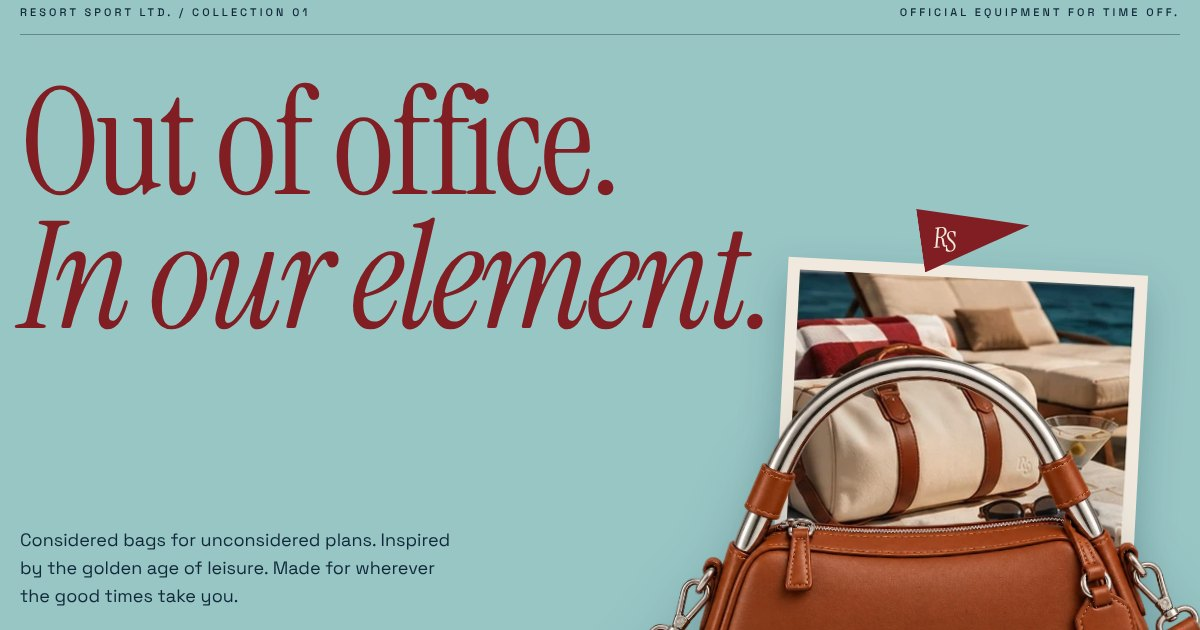
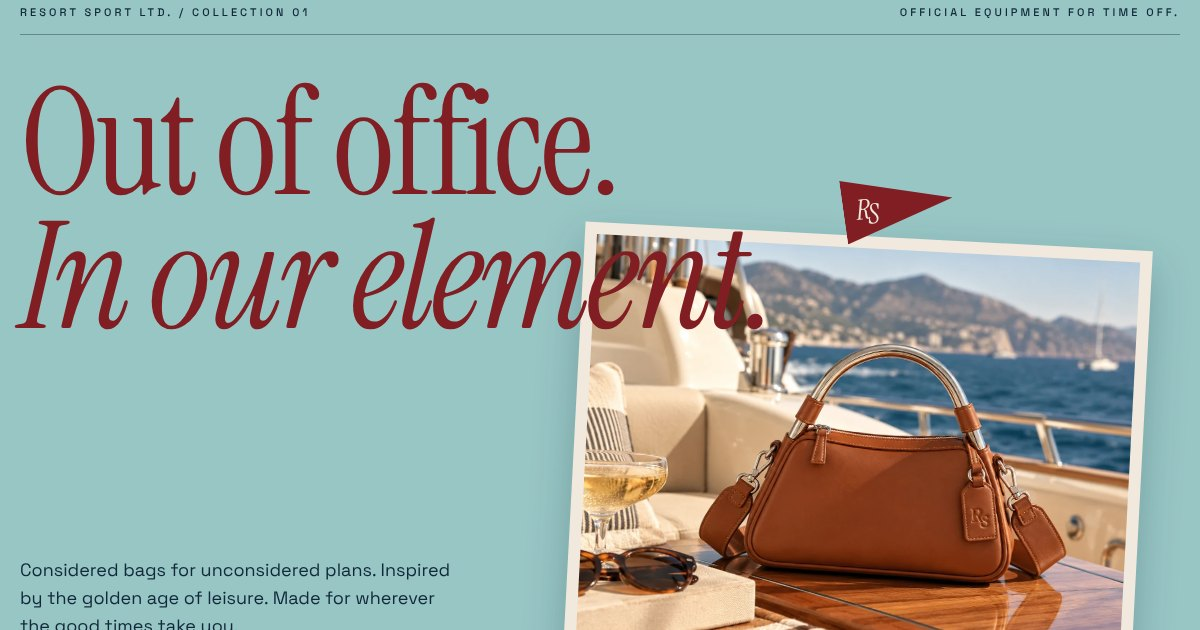
Refresh the share image and README for the new hero
Claude-Session: https://claude.ai/code/session_01B8bkzxFPHgXV8RdEvseNpg

Changed region(s): [[0.4625, 0.2714, 1.0, 1.0], [0.0, 0.8444, 0.37, 1.0]]

diff --git a/README.md b/README.md
@@ -28,7 +28,7 @@ Pricing rule: Heritage sits at the low end of each range and the all-leather col
 ## What's on the page
 
 1. Announcement bar and navigation, with a mobile menu
-2. Hero: "Out of office. In our element." on Pool Aqua, with the Portofino in Cognac
+2. Hero: "Out of office. In our element." on Pool Aqua, with the Portofino in Cognac on a yacht deck as the cover photo
 3. Collection 01: the Portofino and the Rally first and largest; the Monaco and Riviera arriving later; the Regatta in development
 4. Campaign band: "Luxury doesn't have to be serious to be considered." (the creative provocation)
 5. Manifesto: "The art of being off duty."
@@ -73,6 +73,6 @@ To host it on GitHub Pages, turn on Pages in the repo settings and choose the `m
 - Prices are proposed retail ranges, not final MSRP.
 - Returns: 30 days from delivery, unused and in original condition with the dust bag. Shown in the product view and the bag. The delivery policy is not set yet.
 - The Portofino stays at $695 by decision, about $155 above the Polène Numéro Neuf Mini; the pricing story needs to justify the gap.
-- Photography: all five bags have studio cutouts in all four colorways. Lifestyle and detail photos still come from the early brand boards, and some of them show earlier designs that Deck 01 rejected (the barrel duffel, the conventional tote, the flap backpack).
+- Photography: all five bags have studio cutouts in all four colorways. The hero (Portofino on a yacht deck) and Journal 002 (Portofino at a Paris café) use new editorial photos. Other lifestyle and detail photos still come from the early brand boards, and some of them show earlier designs that Deck 01 rejected (the barrel duffel, the conventional tote, the flap backpack).
 - Colorways without a photo show a "Photo to come" tag.
 - Checkout, journal stories, Limited Issues and Our World aren't connected; their buttons show a short note.
